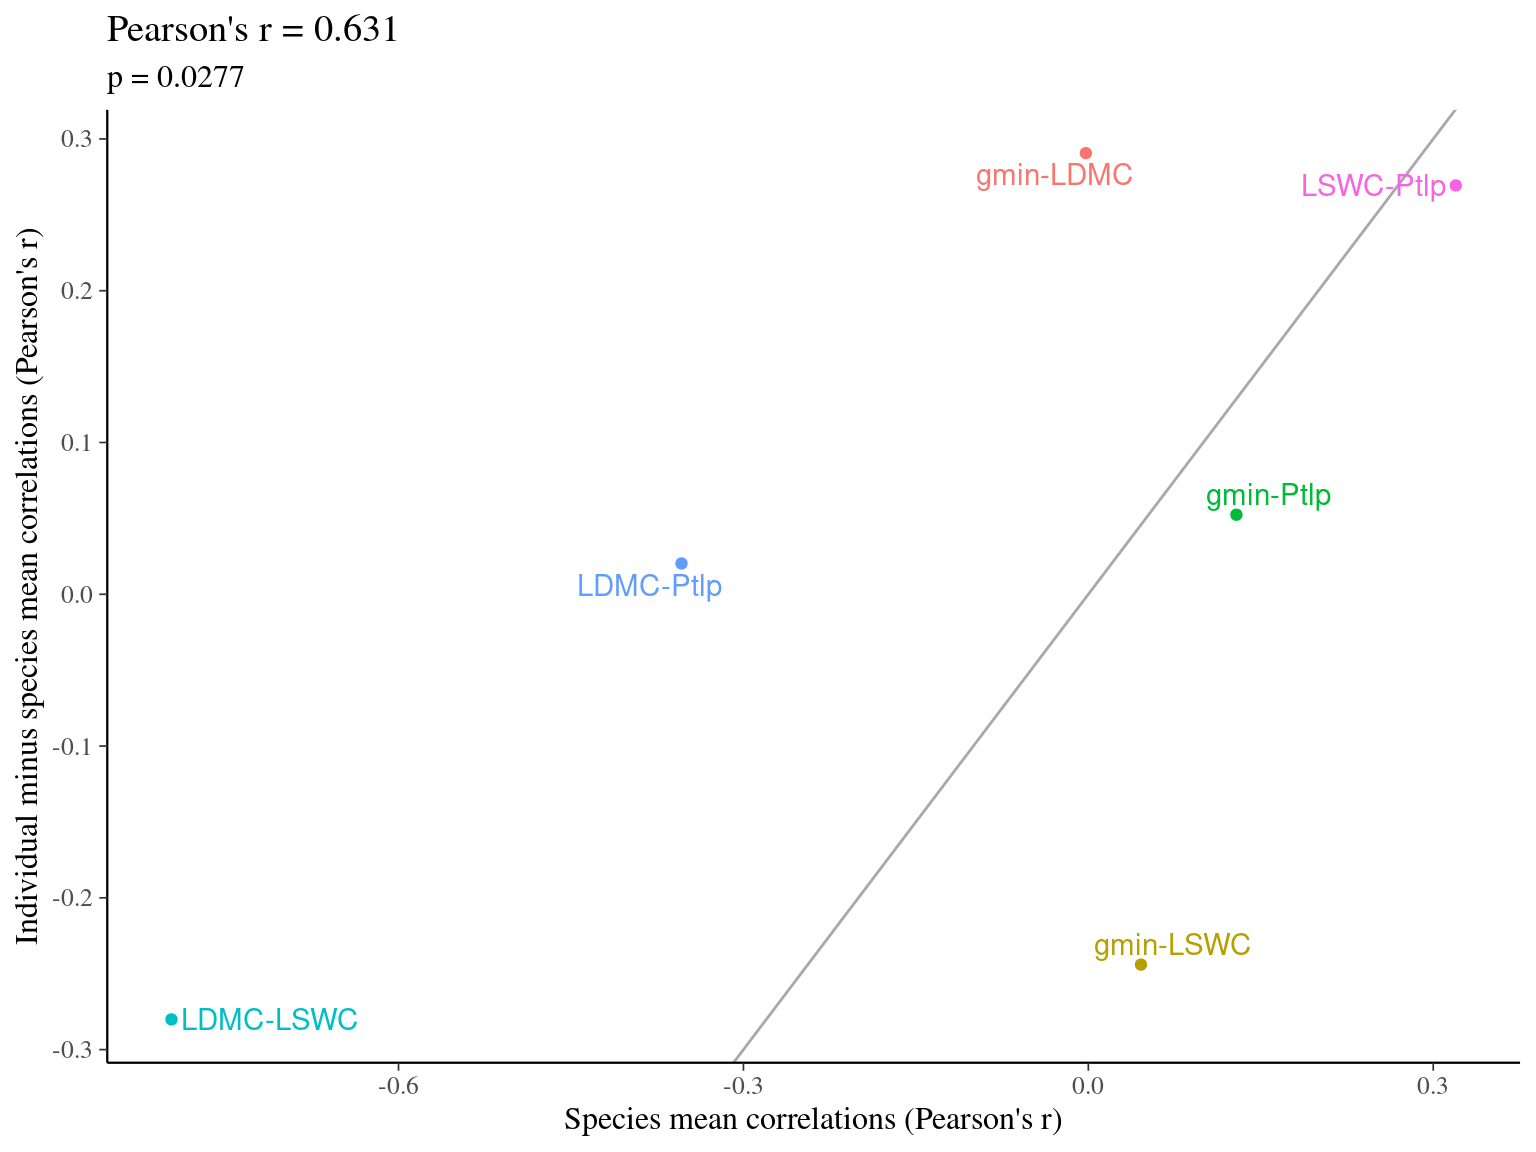
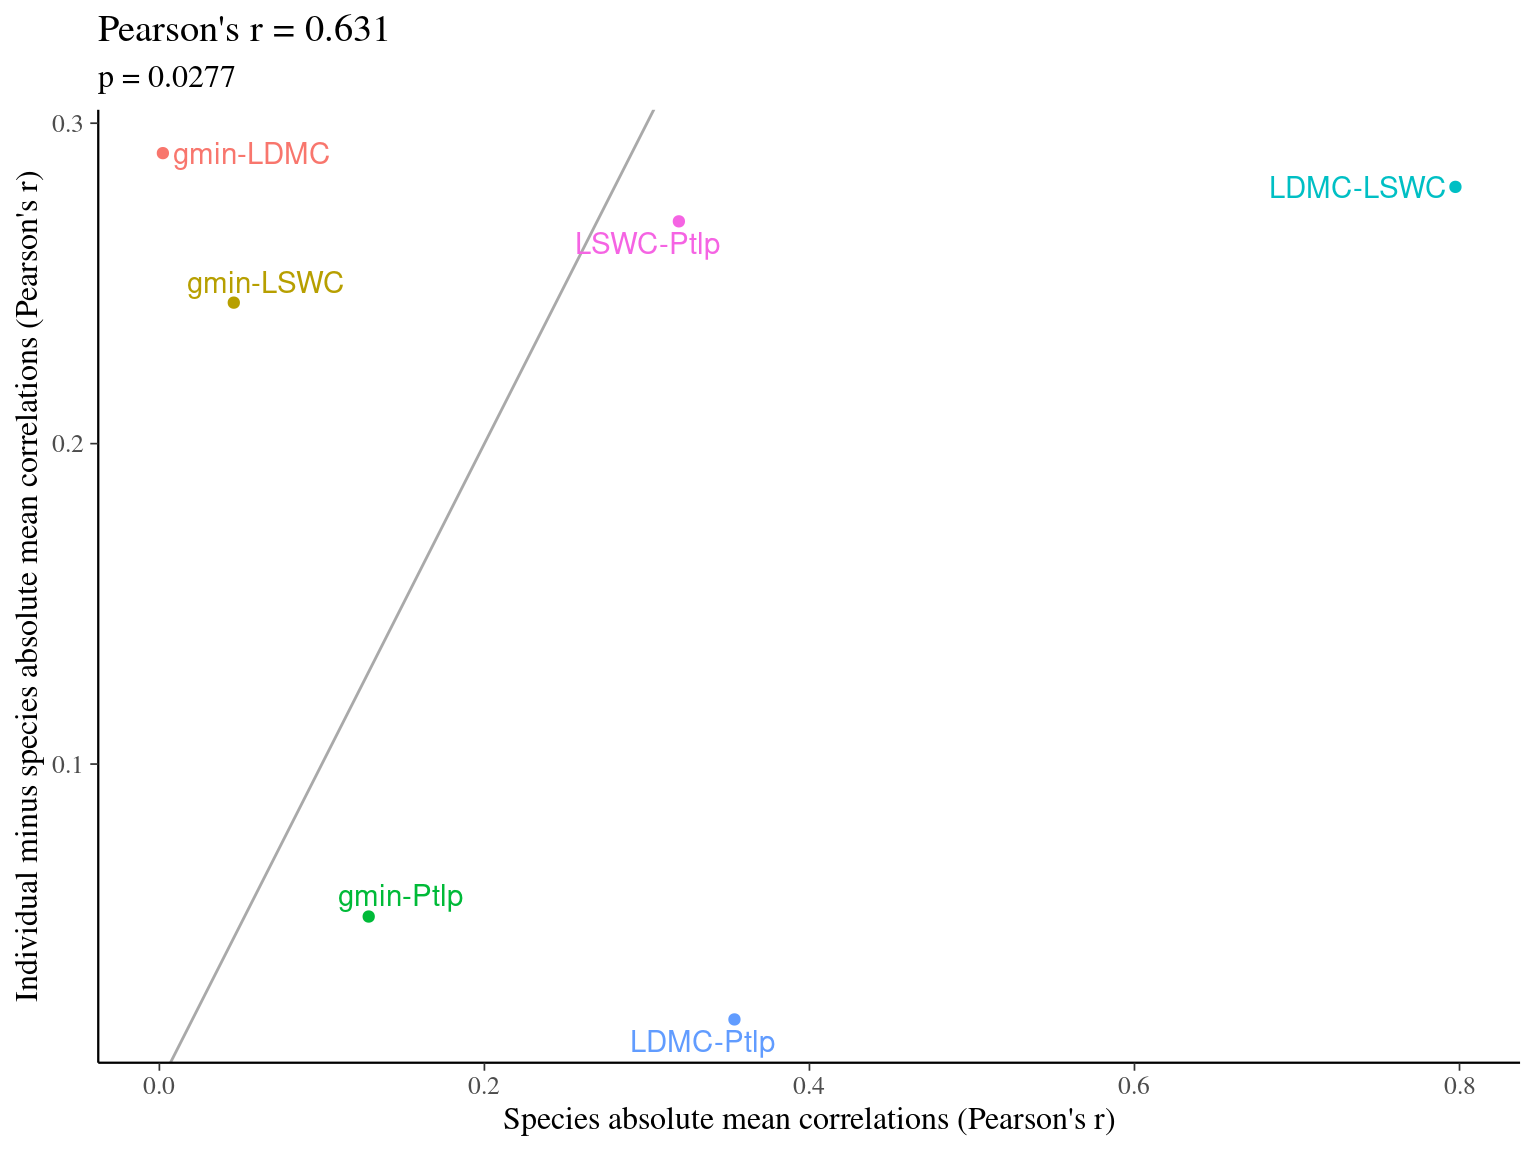
trait covariations absolute

diff --git a/docs/traits-covariation.html b/docs/traits-covariation.html
@@ -24,7 +24,7 @@
 <meta name="author" content="Sylvain Schmitt" />
 
 
-<meta name="date" content="2022-04-26" />
+<meta name="date" content="2022-05-05" />
 
   <meta name="viewport" content="width=device-width, initial-scale=1" />
   <meta name="apple-mobile-web-app-capable" content="yes" />
@@ -313,9 +313,9 @@ gmin
 <div id="results-2" class="section level2">
 <h2><span class="header-section-number">5.3</span> Results</h2>
 <div class="figure"><span id="fig:corspind"></span>
-<img src="hydroITV_files/figure-html/corspind-1.png" alt="Correlation of among- and within-species trait correlations. The X-axis represents the correlations of the mean trait values of the species, while the Y-axis represents the correlations of the individual trait value minus the mean trait value of the corresponding species, thus revealing the coordination of traits between and within species. Points color and label indicate trait pairs for every correlations, while the title indicate the correlation of correlations and associated p-value. The colour and label of the dots indicate the pairs of traits for each correlation, while the title indicates the correlation of all pairs of correlations and the associated p-value. The grey line represents the expected position of the points for a correlation of 1 for trait correlations among- and within-species. Leaf traits include leaf dry matter content (LDMC), leaf saturated water content (LSWC), leaf water potential at which leaf cells lose turgor (Ptlp), and leaf minimum conductance (gmin). Within-species trait values originate from this study including 100 individuals from 10 species, while among trait values originate from Daniela Kreber's PhD with 30 to 102 species per trait. All trait values have been measured using the same protocol in the Paracou research station." width="768" />
+<img src="hydroITV_files/figure-html/corspind-1.png" alt="Correlation of among- and within-species trait correlations. The X-axis represents the absolute correlations of the mean trait values of the species, while the Y-axis represents the absolute correlations of the individual trait value minus the mean trait value of the corresponding species, thus revealing the coordination of traits between and within species. Points color and label indicate trait pairs for every correlations, while the title indicate the correlation of correlations and associated p-value. The colour and label of the dots indicate the pairs of traits for each correlation, while the title indicates the correlation of all pairs of correlations and the associated p-value. The grey line represents the expected position of the points for a correlation of 1 for trait correlations among- and within-species. Leaf traits include leaf dry matter content (LDMC), leaf saturated water content (LSWC), leaf water potential at which leaf cells lose turgor (Ptlp), and leaf minimum conductance (gmin). Within-species trait values originate from this study including 100 individuals from 10 species, while among trait values originate from Daniela Kreber's PhD with 30 to 102 species per trait. All trait values have been measured using the same protocol in the Paracou research station." width="768" />
 <p class="caption">
-Figure 5.1: Correlation of among- and within-species trait correlations. The X-axis represents the correlations of the mean trait values of the species, while the Y-axis represents the correlations of the individual trait value minus the mean trait value of the corresponding species, thus revealing the coordination of traits between and within species. Points color and label indicate trait pairs for every correlations, while the title indicate the correlation of correlations and associated p-value. The colour and label of the dots indicate the pairs of traits for each correlation, while the title indicates the correlation of all pairs of correlations and the associated p-value. The grey line represents the expected position of the points for a correlation of 1 for trait correlations among- and within-species. Leaf traits include leaf dry matter content (LDMC), leaf saturated water content (LSWC), leaf water potential at which leaf cells lose turgor (Ptlp), and leaf minimum conductance (gmin). Within-species trait values originate from this study including 100 individuals from 10 species, while among trait values originate from Daniela Kreber’s PhD with 30 to 102 species per trait. All trait values have been measured using the same protocol in the Paracou research station.
+Figure 5.1: Correlation of among- and within-species trait correlations. The X-axis represents the absolute correlations of the mean trait values of the species, while the Y-axis represents the absolute correlations of the individual trait value minus the mean trait value of the corresponding species, thus revealing the coordination of traits between and within species. Points color and label indicate trait pairs for every correlations, while the title indicate the correlation of correlations and associated p-value. The colour and label of the dots indicate the pairs of traits for each correlation, while the title indicates the correlation of all pairs of correlations and the associated p-value. The grey line represents the expected position of the points for a correlation of 1 for trait correlations among- and within-species. Leaf traits include leaf dry matter content (LDMC), leaf saturated water content (LSWC), leaf water potential at which leaf cells lose turgor (Ptlp), and leaf minimum conductance (gmin). Within-species trait values originate from this study including 100 individuals from 10 species, while among trait values originate from Daniela Kreber’s PhD with 30 to 102 species per trait. All trait values have been measured using the same protocol in the Paracou research station.
 </p>
 </div>
 </div>

diff --git a/docs/index.html b/docs/index.html
@@ -24,7 +24,7 @@
 <meta name="author" content="Sylvain Schmitt" />
 
 
-<meta name="date" content="2022-04-26" />
+<meta name="date" content="2022-05-05" />
 
   <meta name="viewport" content="width=device-width, initial-scale=1" />
   <meta name="apple-mobile-web-app-capable" content="yes" />
@@ -252,7 +252,7 @@ This book is in <b><a href="open.html#open">Open Review</a></b>. I want your fee
 <h1 class="title">hydroITV</h1>
 <h2 class="subtitle"><em>Hydraulic trait inter- versus intra-specific local variability.</em></h2>
 <p class="author"><em>Sylvain Schmitt</em></p>
-<p class="date"><em>2022-04-26</em></p>
+<p class="date"><em>2022-05-05</em></p>
 </div>
 <div id="preface" class="section level1 unnumbered">
 <h1>Preface</h1>

diff --git a/docs/field-data.html b/docs/field-data.html
@@ -24,7 +24,7 @@
 <meta name="author" content="Sylvain Schmitt" />
 
 
-<meta name="date" content="2022-04-26" />
+<meta name="date" content="2022-05-05" />
 
   <meta name="viewport" content="width=device-width, initial-scale=1" />
   <meta name="apple-mobile-web-app-capable" content="yes" />

diff --git a/docs/introduction.html b/docs/introduction.html
@@ -24,7 +24,7 @@
 <meta name="author" content="Sylvain Schmitt" />
 
 
-<meta name="date" content="2022-04-26" />
+<meta name="date" content="2022-05-05" />
 
   <meta name="viewport" content="width=device-width, initial-scale=1" />
   <meta name="apple-mobile-web-app-capable" content="yes" />

diff --git a/docs/literature.html b/docs/literature.html
@@ -24,7 +24,7 @@
 <meta name="author" content="Sylvain Schmitt" />
 
 
-<meta name="date" content="2022-04-26" />
+<meta name="date" content="2022-05-05" />
 
   <meta name="viewport" content="width=device-width, initial-scale=1" />
   <meta name="apple-mobile-web-app-capable" content="yes" />

diff --git a/docs/meetings.html b/docs/meetings.html
@@ -24,7 +24,7 @@
 <meta name="author" content="Sylvain Schmitt" />
 
 
-<meta name="date" content="2022-04-26" />
+<meta name="date" content="2022-05-05" />
 
   <meta name="viewport" content="width=device-width, initial-scale=1" />
   <meta name="apple-mobile-web-app-capable" content="yes" />

diff --git a/docs/ontogeny-and-topography-effects.html b/docs/ontogeny-and-topography-effects.html
@@ -24,7 +24,7 @@
 <meta name="author" content="Sylvain Schmitt" />
 
 
-<meta name="date" content="2022-04-26" />
+<meta name="date" content="2022-05-05" />
 
   <meta name="viewport" content="width=device-width, initial-scale=1" />
   <meta name="apple-mobile-web-app-capable" content="yes" />

diff --git a/docs/references.html b/docs/references.html
@@ -24,7 +24,7 @@
 <meta name="author" content="Sylvain Schmitt" />
 
 
-<meta name="date" content="2022-04-26" />
+<meta name="date" content="2022-05-05" />
 
   <meta name="viewport" content="width=device-width, initial-scale=1" />
   <meta name="apple-mobile-web-app-capable" content="yes" />

diff --git a/docs/traits-variation.html b/docs/traits-variation.html
@@ -24,7 +24,7 @@
 <meta name="author" content="Sylvain Schmitt" />
 
 
-<meta name="date" content="2022-04-26" />
+<meta name="date" content="2022-05-05" />
 
   <meta name="viewport" content="width=device-width, initial-scale=1" />
   <meta name="apple-mobile-web-app-capable" content="yes" />

diff --git a/docs/traits.html b/docs/traits.html
@@ -24,7 +24,7 @@
 <meta name="author" content="Sylvain Schmitt" />
 
 
-<meta name="date" content="2022-04-26" />
+<meta name="date" content="2022-05-05" />
 
   <meta name="viewport" content="width=device-width, initial-scale=1" />
   <meta name="apple-mobile-web-app-capable" content="yes" />

diff --git a/docs/virtual-experiment.html b/docs/virtual-experiment.html
@@ -24,7 +24,7 @@
 <meta name="author" content="Sylvain Schmitt" />
 
 
-<meta name="date" content="2022-04-26" />
+<meta name="date" content="2022-05-05" />
 
   <meta name="viewport" content="width=device-width, initial-scale=1" />
   <meta name="apple-mobile-web-app-capable" content="yes" />
